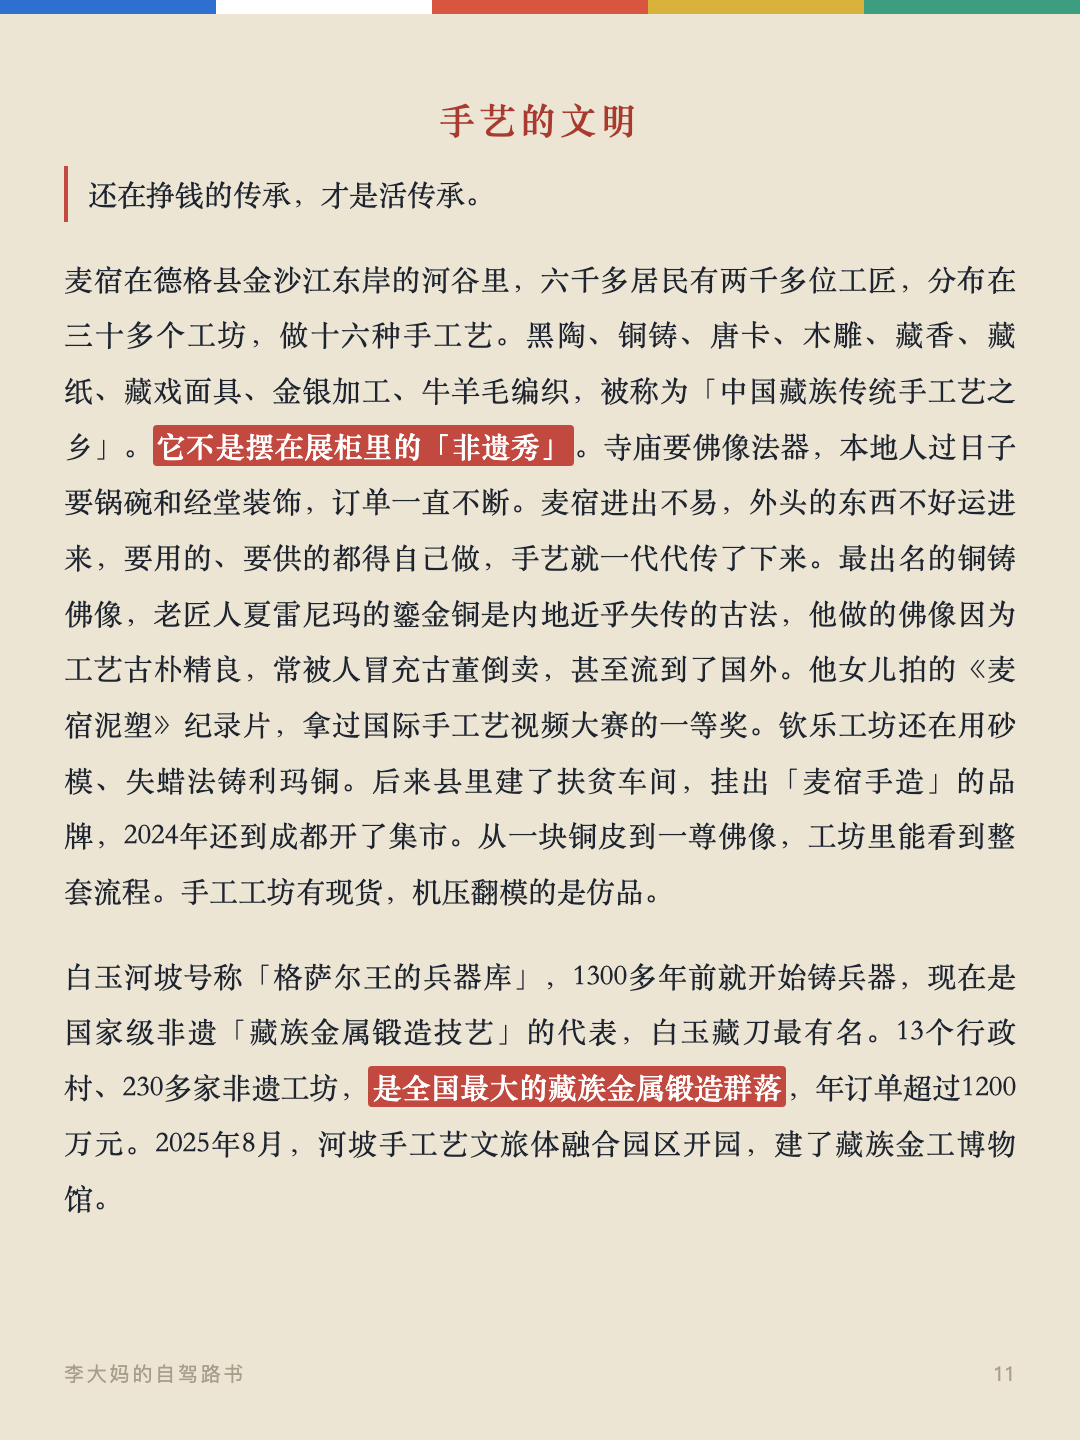
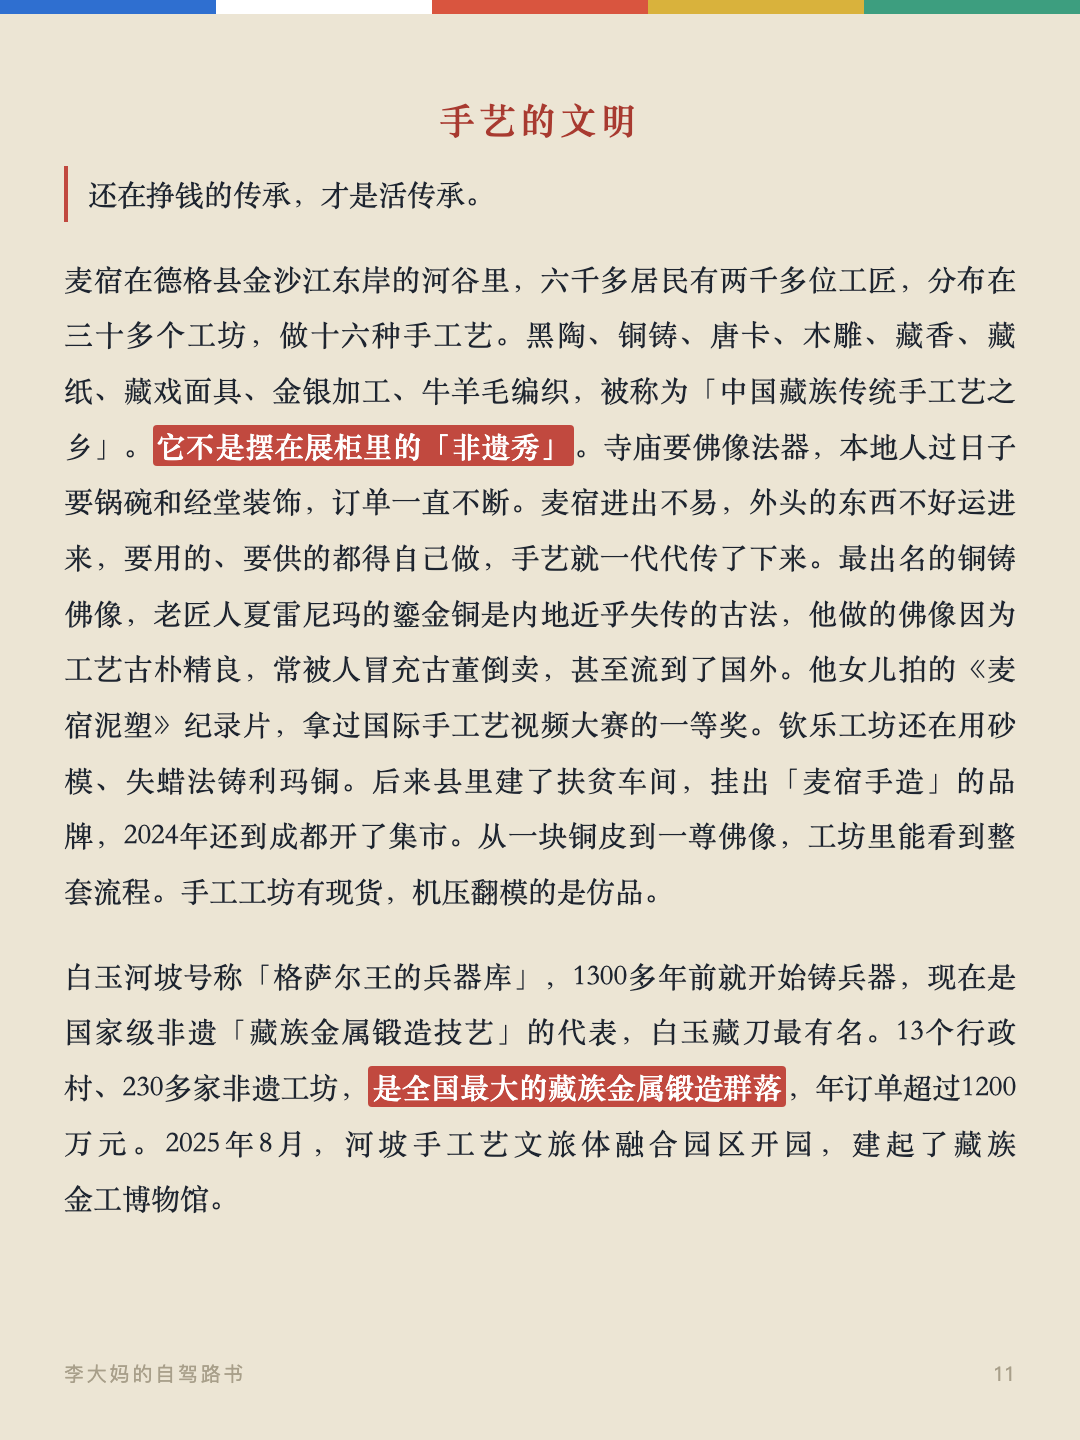
消除card-11馆、card-12样孤字占行；河坡段绑定金工博物馆不换行

Changed region(s): [[0.0611, 0.7812, 0.9472, 0.8438]]

diff --git a/cards.html b/cards.html
@@ -141,9 +141,9 @@
 
 <div class="card" id="card10"><div class="flag" aria-hidden="true"><span style="background:var(--flag-blue)"></span><span style="background:var(--flag-white)"></span><span style="background:var(--flag-red)"></span><span style="background:var(--flag-yellow)"></span><span style="background:var(--flag-green)"></span></div><div class="card__inner"><p>川西的佛学院，把藏地的学问办在草原和山沟里。寺院的分科叫「五明」：工巧明是工艺，医方明是医学，声明是语言文字，因明是逻辑论辩，内明是佛学；再加上修辞、辞藻、韵律、戏剧、历算五科，合称「十明」。色达的喇荣、白玉的亚青、德格的佐钦，都是宁玛派的大佛学院，学通五明的僧人，藏语称「班智达」。</p><p>三大佛学院里，亚青寺最出名的是觉姆岛。它在白玉县昌台草原，1985年由阿秋仁波切创建，是宁玛派的修行地。昌曲河绕寺流过，把女众修行区围成一座河心岛，就是「觉姆岛」，岛上密布上万间绛红色小木屋，住的是觉姆，也就是藏地的女性出家人。屋子是她们自己伐木、夯土、一钉一板搭起来的，每间不足十平方米，屋顶压着塑料布和泥土。<strong>成年男性不上觉姆岛</strong>，岛外的男众不过桥。每年入冬，觉姆们钻进一间仅容一人的小屋，百日闭关，黄昏后才走出。山坡上立着一尊巨大的莲花生大师金像。</p><div class="card__foot"><span>李大妈的自驾路书</span><span>10</span></div></div></div>
 
-<div class="card" id="card11"><div class="flag" aria-hidden="true"><span style="background:var(--flag-blue)"></span><span style="background:var(--flag-white)"></span><span style="background:var(--flag-red)"></span><span style="background:var(--flag-yellow)"></span><span style="background:var(--flag-green)"></span></div><div class="card__inner"><h2>手艺的文明</h2><p class="card__lead">还在挣钱的传承，才是活传承。</p><p>麦宿在德格县金沙江东岸的河谷里，六千多居民有两千多位工匠，分布在三十多个工坊，做十六种手工艺。黑陶、铜铸、唐卡、木雕、藏香、藏纸、藏戏面具、金银加工、牛羊毛编织，被称为「中国藏族传统手工艺之乡」。<strong>它不是摆在展柜里的「非遗秀」</strong>。寺庙要佛像法器，本地人过日子要锅碗和经堂装饰，订单一直不断。麦宿进出不易，外头的东西不好运进来，要用的、要供的都得自己做，手艺就一代代传了下来。最出名的铜铸佛像，老匠人夏雷尼玛的鎏金铜是内地近乎失传的古法，他做的佛像因为工艺古朴精良，常被人冒充古董倒卖，甚至流到了国外。他女儿拍的《麦宿泥塑》纪录片，拿过国际手工艺视频大赛的一等奖。钦乐工坊还在用砂模、失蜡法铸利玛铜。后来县里建了扶贫车间，挂出「麦宿手造」的品牌，2024年还到成都开了集市。从一块铜皮到一尊佛像，工坊里能看到整套流程。手工工坊有现货，机压翻模的是仿品。</p><p>白玉河坡号称「格萨尔王的兵器库」，1300多年前就开始铸兵器，现在是国家级非遗「藏族金属锻造技艺」的代表，白玉藏刀最有名。13个行政村、230多家非遗工坊，<strong>是全国最大的藏族金属锻造群落</strong>，年订单超过1200万元。2025年8月，河坡手工艺文旅体融合园区开园，建了藏族金工博物馆。</p><div class="card__foot"><span>李大妈的自驾路书</span><span>11</span></div></div></div>
+<div class="card" id="card11"><div class="flag" aria-hidden="true"><span style="background:var(--flag-blue)"></span><span style="background:var(--flag-white)"></span><span style="background:var(--flag-red)"></span><span style="background:var(--flag-yellow)"></span><span style="background:var(--flag-green)"></span></div><div class="card__inner"><h2>手艺的文明</h2><p class="card__lead">还在挣钱的传承，才是活传承。</p><p>麦宿在德格县金沙江东岸的河谷里，六千多居民有两千多位工匠，分布在三十多个工坊，做十六种手工艺。黑陶、铜铸、唐卡、木雕、藏香、藏纸、藏戏面具、金银加工、牛羊毛编织，被称为「中国藏族传统手工艺之乡」。<strong>它不是摆在展柜里的「非遗秀」</strong>。寺庙要佛像法器，本地人过日子要锅碗和经堂装饰，订单一直不断。麦宿进出不易，外头的东西不好运进来，要用的、要供的都得自己做，手艺就一代代传了下来。最出名的铜铸佛像，老匠人夏雷尼玛的鎏金铜是内地近乎失传的古法，他做的佛像因为工艺古朴精良，常被人冒充古董倒卖，甚至流到了国外。他女儿拍的《麦宿泥塑》纪录片，拿过国际手工艺视频大赛的一等奖。钦乐工坊还在用砂模、失蜡法铸利玛铜。后来县里建了扶贫车间，挂出「麦宿手造」的品牌，2024年还到成都开了集市。从一块铜皮到一尊佛像，工坊里能看到整套流程。手工工坊有现货，机压翻模的是仿品。</p><p>白玉河坡号称「格萨尔王的兵器库」，1300多年前就开始铸兵器，现在是国家级非遗「藏族金属锻造技艺」的代表，白玉藏刀最有名。13个行政村、230多家非遗工坊，<strong>是全国最大的藏族金属锻造群落</strong>，年订单超过1200万元。2025年8月，河坡手工艺文旅体融合园区开园，建起了藏族<span class="nowrap">金工博物馆</span>。</p><div class="card__foot"><span>李大妈的自驾路书</span><span>11</span></div></div></div>
 
-<div class="card" id="card12"><div class="flag" aria-hidden="true"><span style="background:var(--flag-blue)"></span><span style="background:var(--flag-white)"></span><span style="background:var(--flag-red)"></span><span style="background:var(--flag-yellow)"></span><span style="background:var(--flag-green)"></span></div><div class="card__inner"><p>壤塘在阿坝州，藏语意思是「财神居住的地方」，核心是觉囊文化。2010年建起第一个觉囊唐卡传习所，<strong>免费教贫困家庭的青少年，一学六到八年</strong>。现在有20多个传习所、3项国家级非遗，壤巴拉非遗传习创业园8万多平方米，聚集唐卡、藏医药、藏陶、藏毯等16类手艺，2024年产值两千多万元。县里还在北京、上海、成都、深圳设了传习基地，60名学员接过故宫藏品唐卡复制的项目。觉囊唐卡工坊进了全国「非遗工坊典型案例」。唐卡的颜色从矿石里磨出来：蓝用青金石，红用朱砂，绿用孔雀石，金是真金箔。矿物不含有机成分，见光不褪色，<strong>一张唐卡放几百年，颜色还是那样</strong>。</p><p>德格印经院本身是一门还在运转的印刷产业。1729年建，藏了32万余块雕版，其中古旧印版22.8万块，<strong>是全世界手工木刻印版藏量最多的地方</strong>。经版内容不止经文：宗教、历史、医学、天文历算、文学、艺术都有，「藏文化大百科全书」这个外号就是这么来的。</p><div class="card__foot"><span>李大妈的自驾路书</span><span>12</span></div></div></div>
+<div class="card" id="card12"><div class="flag" aria-hidden="true"><span style="background:var(--flag-blue)"></span><span style="background:var(--flag-white)"></span><span style="background:var(--flag-red)"></span><span style="background:var(--flag-yellow)"></span><span style="background:var(--flag-green)"></span></div><div class="card__inner"><p>壤塘在阿坝州，藏语意思是「财神居住的地方」，核心是觉囊文化。2010年建起第一个觉囊唐卡传习所，<strong>免费教贫困家庭的青少年，一学六到八年</strong>。现在有20多个传习所、3项国家级非遗，壤巴拉非遗传习创业园8万多平方米，聚集唐卡、藏医药、藏陶、藏毯等16类手艺，2024年产值两千多万元。县里还在北京、上海、成都、深圳设了传习基地，60名学员接过故宫藏品唐卡复制的项目。觉囊唐卡工坊进了全国「非遗工坊典型案例」。唐卡的颜色从矿石里磨出来：蓝用青金石，红用朱砂，绿用孔雀石，金是真金箔。矿物不含有机成分，见光不褪色，<strong>一张唐卡放几百年也不变样</strong>。</p><p>德格印经院本身是一门还在运转的印刷产业。1729年建，藏了32万余块雕版，其中古旧印版22.8万块，<strong>是全世界手工木刻印版藏量最多的地方</strong>。经版内容不止经文：宗教、历史、医学、天文历算、文学、艺术都有，「藏文化大百科全书」这个外号就是这么来的。</p><div class="card__foot"><span>李大妈的自驾路书</span><span>12</span></div></div></div>
 
 <div class="card" id="card13"><div class="flag" aria-hidden="true"><span style="background:var(--flag-blue)"></span><span style="background:var(--flag-white)"></span><span style="background:var(--flag-red)"></span><span style="background:var(--flag-yellow)"></span><span style="background:var(--flag-green)"></span></div><div class="card__inner"><p>印刷是流水线工序：裁纸、泡纸、兑墨、研朱砂、印刷、晾晒、分页、核对、装订，十几道。印经书三人一组，一高一矮相对坐，高者固定印纸刷墨，矮者递纸、用卷布滚筒滚印，配合熟练的一天印2400张4800页。材料也讲究：<strong>藏纸用瑞香狼毒草的根，含毒，虫不蛀、鼠不咬</strong>；雕版用海拔3000米以上的红桦木，微火熏烤、水煮、烘干，刻好的版要过12次审校，在酥油里泡一天才算完成。</p><p><strong>印经院至今没通电</strong>，是怕火险伤经版，游客就着天光看印刷间。古旧经版现在限量印刷，近十年复刻了2.2万余块新版供印，古版封存，印版修复每年补刻230余块。2006年它进了国家级非遗，2009年被联合国教科文组织列入人类非物质文化遗产代表作名录。</p><div class="card__foot"><span>李大妈的自驾路书</span><span>13</span></div></div></div>
 

diff --git a/index.html b/index.html
@@ -277,8 +277,8 @@
       <div class="part__head"><span class="part__no" aria-hidden="true">五</span><h2>手艺的文明</h2></div>
       <p class="part__lead">还在挣钱的传承，才是活传承。</p>
       <p>麦宿在德格县金沙江东岸的河谷里，六千多居民有两千多位工匠，分布在三十多个工坊，做十六种手工艺。黑陶、铜铸、唐卡、木雕、藏香、藏纸、藏戏面具、金银加工、牛羊毛编织，被称为「中国藏族传统手工艺之乡」。<strong>它不是摆在展柜里的「非遗秀」</strong>。寺庙要佛像法器，本地人过日子要锅碗和经堂装饰，订单一直不断。麦宿进出不易，外头的东西不好运进来，要用的、要供的都得自己做，手艺就一代代传了下来。最出名的铜铸佛像，老匠人夏雷尼玛的鎏金铜是内地近乎失传的古法，他做的佛像因为工艺古朴精良，常被人冒充古董倒卖，甚至流到了国外。他女儿拍的《麦宿泥塑》纪录片，拿过国际手工艺视频大赛的一等奖。钦乐工坊还在用砂模、失蜡法铸利玛铜。后来县里建了扶贫车间，挂出「麦宿手造」的品牌，2024年还到成都开了集市。从一块铜皮到一尊佛像，工坊里能看到整套流程。手工工坊有现货，机压翻模的是仿品。</p>
-      <p>白玉河坡号称「格萨尔王的兵器库」，1300多年前就开始铸兵器，现在是国家级非遗「藏族金属锻造技艺」的代表，白玉藏刀最有名。13个行政村、230多家非遗工坊，<strong>是全国最大的藏族金属锻造群落</strong>，年订单超过1200万元。2025年8月，河坡手工艺文旅体融合园区开园，建了藏族金工博物馆。</p>
-      <p>壤塘在阿坝州，藏语意思是「财神居住的地方」，核心是觉囊文化。2010年建起第一个觉囊唐卡传习所，<strong>免费教贫困家庭的青少年，一学六到八年</strong>。现在有20多个传习所、3项国家级非遗，壤巴拉非遗传习创业园8万多平方米，聚集唐卡、藏医药、藏陶、藏毯等16类手艺，2024年产值两千多万元。县里还在北京、上海、成都、深圳设了传习基地，60名学员接过故宫藏品唐卡复制的项目。觉囊唐卡工坊进了全国「非遗工坊典型案例」。唐卡的颜色从矿石里磨出来：蓝用青金石，红用朱砂，绿用孔雀石，金是真金箔。矿物不含有机成分，见光不褪色，<strong>一张唐卡放几百年，颜色还是那样</strong>。</p>
+      <p>白玉河坡号称「格萨尔王的兵器库」，1300多年前就开始铸兵器，现在是国家级非遗「藏族金属锻造技艺」的代表，白玉藏刀最有名。13个行政村、230多家非遗工坊，<strong>是全国最大的藏族金属锻造群落</strong>，年订单超过1200万元。2025年8月，河坡手工艺文旅体融合园区开园，建起了藏族<span class="nowrap">金工博物馆</span>。</p>
+      <p>壤塘在阿坝州，藏语意思是「财神居住的地方」，核心是觉囊文化。2010年建起第一个觉囊唐卡传习所，<strong>免费教贫困家庭的青少年，一学六到八年</strong>。现在有20多个传习所、3项国家级非遗，壤巴拉非遗传习创业园8万多平方米，聚集唐卡、藏医药、藏陶、藏毯等16类手艺，2024年产值两千多万元。县里还在北京、上海、成都、深圳设了传习基地，60名学员接过故宫藏品唐卡复制的项目。觉囊唐卡工坊进了全国「非遗工坊典型案例」。唐卡的颜色从矿石里磨出来：蓝用青金石，红用朱砂，绿用孔雀石，金是真金箔。矿物不含有机成分，见光不褪色，<strong>一张唐卡放几百年也不变样</strong>。</p>
       <p>德格印经院本身是一门还在运转的印刷产业。1729年建，藏了32万余块雕版，其中古旧印版22.8万块，<strong>是全世界手工木刻印版藏量最多的地方</strong>。经版内容不止经文：宗教、历史、医学、天文历算、文学、艺术都有，「藏文化大百科全书」这个外号就是这么来的。</p>
       <p>印刷是流水线工序：裁纸、泡纸、兑墨、研朱砂、印刷、晾晒、分页、核对、装订，十几道。印经书三人一组，一高一矮相对坐，高者固定印纸刷墨，矮者递纸、用卷布滚筒滚印，配合熟练的一天印2400张4800页。材料也讲究：<strong>藏纸用瑞香狼毒草的根，含毒，虫不蛀、鼠不咬</strong>；雕版用海拔3000米以上的红桦木，微火熏烤、水煮、烘干，刻好的版要过12次审校，在酥油里泡一天才算完成。</p>
       <p><strong>印经院至今没通电</strong>，是怕火险伤经版，游客就着天光看印刷间。古旧经版现在限量印刷，近十年复刻了2.2万余块新版供印，古版封存，印版修复每年补刻230余块。2006年它进了国家级非遗，2009年被联合国教科文组织列入人类非物质文化遗产代表作名录。</p>

diff --git a/gen_cards.py b/gen_cards.py
@@ -71,8 +71,8 @@ BODY_STREAM = [
   ('h2', '手艺的文明'),
   ('lead', '还在挣钱的传承，才是活传承。'),
   ('p', '麦宿在德格县金沙江东岸的河谷里，六千多居民有两千多位工匠，分布在三十多个工坊，做十六种手工艺。黑陶、铜铸、唐卡、木雕、藏香、藏纸、藏戏面具、金银加工、牛羊毛编织，被称为「中国藏族传统手工艺之乡」。<strong>它不是摆在展柜里的「非遗秀」</strong>。寺庙要佛像法器，本地人过日子要锅碗和经堂装饰，订单一直不断。麦宿进出不易，外头的东西不好运进来，要用的、要供的都得自己做，手艺就一代代传了下来。最出名的铜铸佛像，老匠人夏雷尼玛的鎏金铜是内地近乎失传的古法，他做的佛像因为工艺古朴精良，常被人冒充古董倒卖，甚至流到了国外。他女儿拍的《麦宿泥塑》纪录片，拿过国际手工艺视频大赛的一等奖。钦乐工坊还在用砂模、失蜡法铸利玛铜。后来县里建了扶贫车间，挂出「麦宿手造」的品牌，2024年还到成都开了集市。从一块铜皮到一尊佛像，工坊里能看到整套流程。手工工坊有现货，机压翻模的是仿品。'),
-  ('p', '白玉河坡号称「格萨尔王的兵器库」，1300多年前就开始铸兵器，现在是国家级非遗「藏族金属锻造技艺」的代表，白玉藏刀最有名。13个行政村、230多家非遗工坊，<strong>是全国最大的藏族金属锻造群落</strong>，年订单超过1200万元。2025年8月，河坡手工艺文旅体融合园区开园，建了藏族金工博物馆。'),
-  ('p', '壤塘在阿坝州，藏语意思是「财神居住的地方」，核心是觉囊文化。2010年建起第一个觉囊唐卡传习所，<strong>免费教贫困家庭的青少年，一学六到八年</strong>。现在有20多个传习所、3项国家级非遗，壤巴拉非遗传习创业园8万多平方米，聚集唐卡、藏医药、藏陶、藏毯等16类手艺，2024年产值两千多万元。县里还在北京、上海、成都、深圳设了传习基地，60名学员接过故宫藏品唐卡复制的项目。觉囊唐卡工坊进了全国「非遗工坊典型案例」。唐卡的颜色从矿石里磨出来：蓝用青金石，红用朱砂，绿用孔雀石，金是真金箔。矿物不含有机成分，见光不褪色，<strong>一张唐卡放几百年，颜色还是那样</strong>。'),
+  ('p', '白玉河坡号称「格萨尔王的兵器库」，1300多年前就开始铸兵器，现在是国家级非遗「藏族金属锻造技艺」的代表，白玉藏刀最有名。13个行政村、230多家非遗工坊，<strong>是全国最大的藏族金属锻造群落</strong>，年订单超过1200万元。2025年8月，河坡手工艺文旅体融合园区开园，建起了藏族<span class="nowrap">金工博物馆</span>。'),
+  ('p', '壤塘在阿坝州，藏语意思是「财神居住的地方」，核心是觉囊文化。2010年建起第一个觉囊唐卡传习所，<strong>免费教贫困家庭的青少年，一学六到八年</strong>。现在有20多个传习所、3项国家级非遗，壤巴拉非遗传习创业园8万多平方米，聚集唐卡、藏医药、藏陶、藏毯等16类手艺，2024年产值两千多万元。县里还在北京、上海、成都、深圳设了传习基地，60名学员接过故宫藏品唐卡复制的项目。觉囊唐卡工坊进了全国「非遗工坊典型案例」。唐卡的颜色从矿石里磨出来：蓝用青金石，红用朱砂，绿用孔雀石，金是真金箔。矿物不含有机成分，见光不褪色，<strong>一张唐卡放几百年也不变样</strong>。'),
   ('p', '德格印经院本身是一门还在运转的印刷产业。1729年建，藏了32万余块雕版，其中古旧印版22.8万块，<strong>是全世界手工木刻印版藏量最多的地方</strong>。经版内容不止经文：宗教、历史、医学、天文历算、文学、艺术都有，「藏文化大百科全书」这个外号就是这么来的。'),
   ('pb', ''),
   ('p', '印刷是流水线工序：裁纸、泡纸、兑墨、研朱砂、印刷、晾晒、分页、核对、装订，十几道。印经书三人一组，一高一矮相对坐，高者固定印纸刷墨，矮者递纸、用卷布滚筒滚印，配合熟练的一天印2400张4800页。材料也讲究：<strong>藏纸用瑞香狼毒草的根，含毒，虫不蛀、鼠不咬</strong>；雕版用海拔3000米以上的红桦木，微火熏烤、水煮、烘干，刻好的版要过12次审校，在酥油里泡一天才算完成。'),
